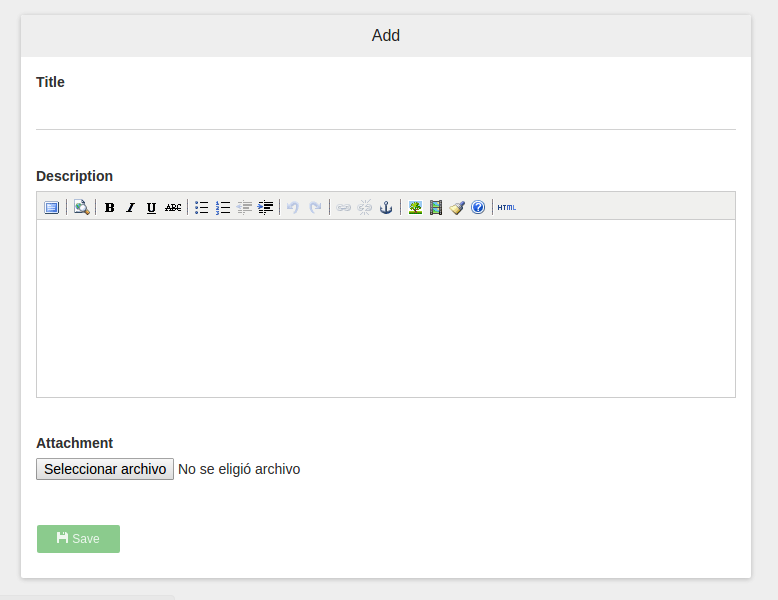
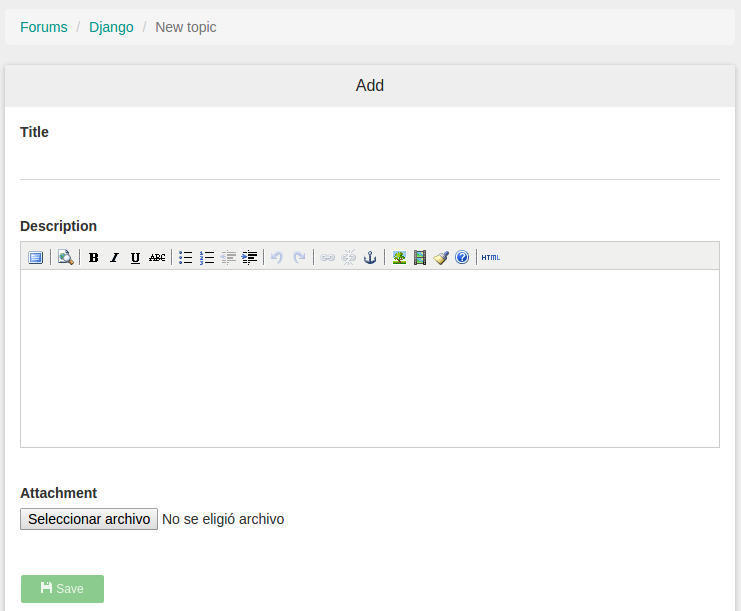
Add Breadcrumbs with bootstrap. #32

diff --git a/musette/templates/musette/topic_index.html b/musette/templates/musette/topic_index.html
@@ -20,51 +20,56 @@
 
   <div>
     <div class="col-md-12">
-        <h2>{% trans "Forum" %}: <a href="/forum/{{topic.forum.name}}/">{{topic.forum.name}}</a></h2>
+        <div class="row">
+          <ul class="breadcrumb">
+              <li><a href="/forums/">{% trans "Forums" %}</a></li>
+              <li><a href="/forum/{{topic.forum.name}}/">{{topic.forum.name}}</a></li>
+              <li class="active">{{ topic.title }}</li>
+          </ul>
+        </div>
+
         {% if user.id %}
           {% include "musette/notification.html" %}
         {% endif %}
-        <p>{{topic.forum.description|safe}}</p>
-        <hr>
-        <section class="comment-list">
-          <!-- First Comment -->
-          <article class="row">
-            <div class="col-md-2 col-sm-2 hidden-xs">
-              <figure class="thumbnail">
-                {% if field_photo %}
-                  <img src="{{MEDIA_URL}}{{field_photo}}" class="img-responsive" width="150" hegiht="150" />
-                {% else %}
-                  <img src="{% static 'img/profile.png' %}" class="img-responsive" width="150" hegiht="150" />
-                {% endif %}
-                <figcaption class="text-center">{{topic.user|get_path_profile|safe}}</figcaption>
-              </figure>
-              <div style="text-align: center">
-                {% if topic.user.id == user.id %}
-                <a href="/edit_topic/{{topic.forum.name}}/{{topic.idtopic}}/" class="btn btn-success btn-xs">
-                  <i class="glyphicon glyphicon-hand-up"></i> {% trans "Edit" %}</a>
-                <a style="cursor: pointer;" data-toggle="modal" data-target="#myModal" class="btn btn-danger btn-xs">
-                  <i class="glyphicon glyphicon-trash"></i> {% trans "Delete" %}</a>
-                {% endif %}
-                <br>
-                <br>
-              </div>
-            </div>
-            <div class="col-md-10 col-sm-10">
-              <div class="panel panel-default arrow left">
-                <div class="panel-body">
-                  <header class="text-left">
-                    <h4><i class="fa fa-clock-o"></i> {{topic.title}}</h4>
+
+        <article class="row">
+          <div class="col-md-12 col-sm-12">
+            <div class="panel panel-default arrow left">
+              <div class="panel-body">
+
+                <div class="pull-left" style="margin-right: 1em">
+                  <figure class="thumbnail">
+                    {% if field_photo %}
+                        <img src="{{MEDIA_URL}}{{field_photo}}" class="img-responsive" width="150" hegiht="150" />
+                      {% else %}
+                        <img src="{% static 'img/profile.png' %}" class="img-responsive" width="150" hegiht="150" />
+                      {% endif %}
+                      <figcaption class="text-center">{{topic.user|get_path_profile|safe}}</figcaption>
+                  </figure>
+                  <div style="text-align: center">
+                      {% if topic.user.id == user.id %}
+                      <a href="/edit_topic/{{topic.forum.name}}/{{topic.idtopic}}/" class="btn btn-success btn-xs">
+                        <i class="glyphicon glyphicon-hand-up"></i> {% trans "Edit" %}</a>
+                      <a style="cursor: pointer;" data-toggle="modal" data-target="#myModal" class="btn btn-danger btn-xs">
+                        <i class="glyphicon glyphicon-trash"></i> {% trans "Delete" %}</a>
+                      {% endif %}
+                  </div>
+                </div>
+
+                <div>
+                  <header>
+                    <h3><i class="fa fa-clock-o"></i> {{topic.title}}</h3>
+                    <hr>
                   </header>
                   <div class="comment-post">
                     <p>
                       {{topic.description|safe}}
-
                       {% if topic.attachment %}
                         <img src="{{MEDIA_URL}}{{topic.attachment}}" class="img-responsive" />
                       {% endif %}
                     </p>
+                    <hr>
                   </div>
-                  <hr>
                   <div class="pull-left">
                     {% if total_hits|add:"0" > 1 %}
                       <p style="margin-top: 5px;">{% trans "This topic has" %} {{ total_hits }} {% trans "views" %}</p>
@@ -76,9 +81,11 @@
                   <p class="pull-right">{{topic.date}}</p>
                 </div>
               </div>
+
             </div>
-          </article>
-        </section>
+          </div>
+        </article>
+
     </div>
   </div>
 
@@ -152,7 +159,9 @@
         {% for field in form_comment %}
           {% if field.name == "description" %}
               <div class="form-group" ng-class="{ 'has-error' : formComment.description.$invalid && !formComment.description.$pristine }">
-                {{ field }}
+                <div class="in_div_textarea">
+                  {{ field }}
+                </div>
                 {% if form_comment.description.errors %}
                   <div style="color: red">{{ form_comment.description.errors }}</div>
                 {% endif %}

diff --git a/musette/templates/musette/edit_topic.html b/musette/templates/musette/edit_topic.html
@@ -14,6 +14,12 @@
 <div class="container" ng-app="MusetteApp"  ng-controller="TopicController">
 
 	<div class="mainbox col-md-8 col-md-offset-2 col-sm-6 col-sm-offset-3">
+		<ul class="breadcrumb">
+          	<li><a href="/forums/">{% trans "Forums" %}</a></li>
+          	<li><a href="/forum/{{forum}}/">{{forum}}</a></li>
+          	<li class="active">{% trans "Edit topic" %}</li>
+      	</ul>
+
 		{% for message in messages %}
 			{% if message.tags != "error" %}
 				<div class="alert alert-success" role="alert">
@@ -50,7 +56,9 @@
 			            {% if field.name == "description" %}
 			            	<div class="form-group" ng-class="{ 'has-error' : editTopic.description.$invalid && !editTopic.description.$pristine }">
 				            	<label>{% trans "Description" %}</label>
-				              	{{ field }}
+				            	<div class="in_div_textarea">
+				              		{{ field }}
+				              	</div>
 				              	{% if form.description.errors %}
 				              		<div style="color: red">{{ form.description.errors|safe }}</div>
 				              	{% else %}
@@ -61,7 +69,9 @@
 			          	{% if field.name == "attachment" %}
 			          		<div class="form-group">
 				            	<label>{% trans "Attachment" %}</label>
-				              	{{ field }}
+				            	<div class="in_div_textarea">
+				              		{{ field }}
+				              	</div>
 				              	{% if form.attachment.errors %}
 				              		<div style="color: red">{{ form.attachment.errors }}</div>
 				              	{% else %}

diff --git a/musette/templates/musette/new_topic.html b/musette/templates/musette/new_topic.html
@@ -14,6 +14,13 @@
 <div class="container" ng-app="MusetteApp"  ng-controller="TopicController">
 
 	<div class="mainbox col-md-8 col-md-offset-2 col-sm-6 col-sm-offset-3">
+
+		<ul class="breadcrumb">
+          	<li><a href="/forums/">{% trans "Forums" %}</a></li>
+          	<li><a href="/forum/{{forum}}/">{{forum}}</a></li>
+          	<li class="active">{% trans "New topic" %}</li>
+      	</ul>
+
 		{% for message in messages %}
 			{% if message.tags != "error" %}
 				<div class="alert alert-success" role="alert">
@@ -50,7 +57,9 @@
 			            {% if field.name == "description" %}
 			            	<div class="form-group" ng-class="{ 'has-error' : addTopic.description.$invalid && !addTopic.description.$pristine }">
 				            	<label>{% trans "Description" %}</label>
-				              	{{ field }}
+				            	<div class="in_div_textarea">
+				              		{{ field }}
+				              	</div>
 				              	{% if form.description.errors %}
 				              		<div style="color: red">{{ form.description.errors|safe }}</div>
 				              	{% else %}
@@ -61,7 +70,9 @@
 			          	{% if field.name == "attachment" %}
 			          		<div class="form-group">
 				            	<label>{% trans "Attachment" %}</label>
-				              	{{ field }}
+				            	<div class="in_div_textarea">
+				              		{{ field }}
+				              	</div>
 				              	{% if form.attachment.errors %}
 				              		<div style="color: red">{{ form.attachment.errors }}</div>
 				              	{% else %}

diff --git a/musette/templates/musette/users_forum_index.html b/musette/templates/musette/users_forum_index.html
@@ -12,20 +12,21 @@
 {% block content %}
 
 <div class="container" ng-app="MusetteApp">
-    <div class="row">
-        <h4>{% trans "Forum members" %}: <a href="/forum/{{forum}}/">{{forum}}</a></h4>
-    </div>
+    <ul class="breadcrumb">
+        <li><a href="/forums/">{% trans "Forums" %}</a></li>
+        <li><a href="/forum/{{forum}}/">{{ forum }}</a></li>
+        <li class="active">{% trans "Forum members" %}</li>
+    </ul>
 
-    <div class="row">
-        <div class="panel panel-default">
-            <div class="panel-heading">
-                <h3 class="panel-title"><h5>{% trans "Moderator" %}: <span>{{ forum.moderators|get_path_profile|safe }}</span></h5></h3>
-            </div>
-            <div class="panel-body" endless-pagination="{'paginateOnScroll': true}">
-                {% include 'musette/users_forum.html' %}
-            </div>
+    <h4>{% trans "Forum members" %}: <a href="/forum/{{forum}}/">{{forum}}</a></h4>
+
+    <div class="panel panel-default">
+        <div class="panel-heading">
+            <h3 class="panel-title"><h5>{% trans "Moderator" %}: <span>{{ forum.moderators|get_path_profile|safe }}</span></h5></h3>
         </div>
-
+        <div class="panel-body" endless-pagination="{'paginateOnScroll': true}">
+            {% include 'musette/users_forum.html' %}
+        </div>
     </div>
 </div>
 

diff --git a/musette/templates/musette/topic.html b/musette/templates/musette/topic.html
@@ -50,9 +50,11 @@
 
           <form action="/updatecomment/{{topic.forum.name}}/{{topic.slug}}/{{topic.idtopic}}/{{comment.idcomment}}/" method="POST">
               {% csrf_token%}
-              <textarea name="update_description" id="textarea_comment_{{comment.idcomment}}" style="width: 100%" required>
-                {{comment.description|safe}}
-              </textarea>
+              <div class="in_div_textarea">
+                <textarea name="update_description" id="textarea_comment_{{comment.idcomment}}" style="width: 100%" required>
+                  {{comment.description|safe}}
+                </textarea>
+              </div>
             <br>
             <button type="submit" class="btn btn-success btn-sm">
                 <i class="glyphicon glyphicon-hand-up"></i> {% trans "Edit comment" %}

diff --git a/musette/static/css/styles.css b/musette/static/css/styles.css
@@ -44,12 +44,13 @@
   margin-left: 0.1em;
 }
 
-@-moz-document url-prefix() {
-  .margin-left-moz{
-    margin-left: 0.3em;
+@media screen and (min-width:1280px) {
+  @-moz-document url-prefix() {
+    .margin-left-moz{
+      margin-left: 0.3em;
+    }
   }
 }
-
 
 /* enable absolute positioning for within text box icon*/
 .inner-addon {
@@ -70,3 +71,8 @@
 /* add padding  */
 .left-addon input  { padding-left:  30px; }
 .right-addon input { padding-right: 30px; }
+
+/* For that not outside textarea in div*/
+.in_div_textarea{
+  overflow: auto;
+}

diff --git a/musette/templates/musette/topic_search_index.html b/musette/templates/musette/topic_search_index.html
@@ -11,6 +11,15 @@
 {% block content %}
 
 <div class="container" ng-app="MusetteApp">
+
+	<div class="row">
+      <ul class="breadcrumb">
+          <li><a href="/forums/">{% trans "Forums" %}</a></li>
+          <li><a href="/forum/{{forum}}/">{{forum}}</a></li>
+          <li class="active">{% trans "Find Topics" %}</li>
+      </ul>
+    </div>
+
 	<div class="endless_page_template">
 		<div class="panel panel-default" >
 	        <div class="panel-heading">

diff --git a/musette/templates/musette/users_forum.html b/musette/templates/musette/users_forum.html
@@ -9,7 +9,7 @@
     <div class="col-sm-2">
         <div>
             <div class="avatar">
-                <img src="{{profile.user.id|get_photo}}" class="img-thumbnail picture hidden-xs" width="100" hegiht="100" />
+                <img src="{{profile.user.id|get_photo}}" class="img-thumbnail picture" width="100" hegiht="100" />
             </div>
             <div class="content">
                 <br>

diff --git a/musette/templates/musette/all_notification_index.html b/musette/templates/musette/all_notification_index.html
@@ -11,6 +11,14 @@
 {% block content %}
 
 <div class="container" ng-app="MusetteApp">
+
+	<div class="row">
+      <ul class="breadcrumb">
+          <li><a href="/forums/">{% trans "Forums" %}</a></li>
+          <li class="active">{% trans "Notifications" %}</li>
+      </ul>
+    </div>
+
 	<div class="endless_page_template">
 		<div class="panel panel-default" >
 	        <div class="panel-heading">

diff --git a/musette/templates/musette/forum_index.html b/musette/templates/musette/forum_index.html
@@ -19,6 +19,11 @@
 
 <div class="container" ng-app="MusetteApp">
 
+	<ul class="breadcrumb">
+	    <li><a href="/forums/">{% trans "Forums" %}</a></li>
+	    <li class="active">{{ forum }}</li>
+	</ul>
+
 	{% get_hit_count for forum as total_hits %}
 
 	{% if forum.moderators_id == user.id %}

diff --git a/musette/templates/musette/index.html b/musette/templates/musette/index.html
@@ -13,6 +13,10 @@
 
 <div class="container" ng-app="MusetteApp">
 
+	<ul class="breadcrumb">
+	    <li class="active">{% trans "Forums" %}</li>
+	</ul>
+
 	{% if user.id %}
 		{% include "musette/notification.html" %}
 	{% endif %}

diff --git a/musette/views.py b/musette/views.py
@@ -213,6 +213,7 @@ class EditTopicView(FormView):
 
         data = {
             'form': form,
+            'forum': forum,
             'topic': topic,
         }
 
